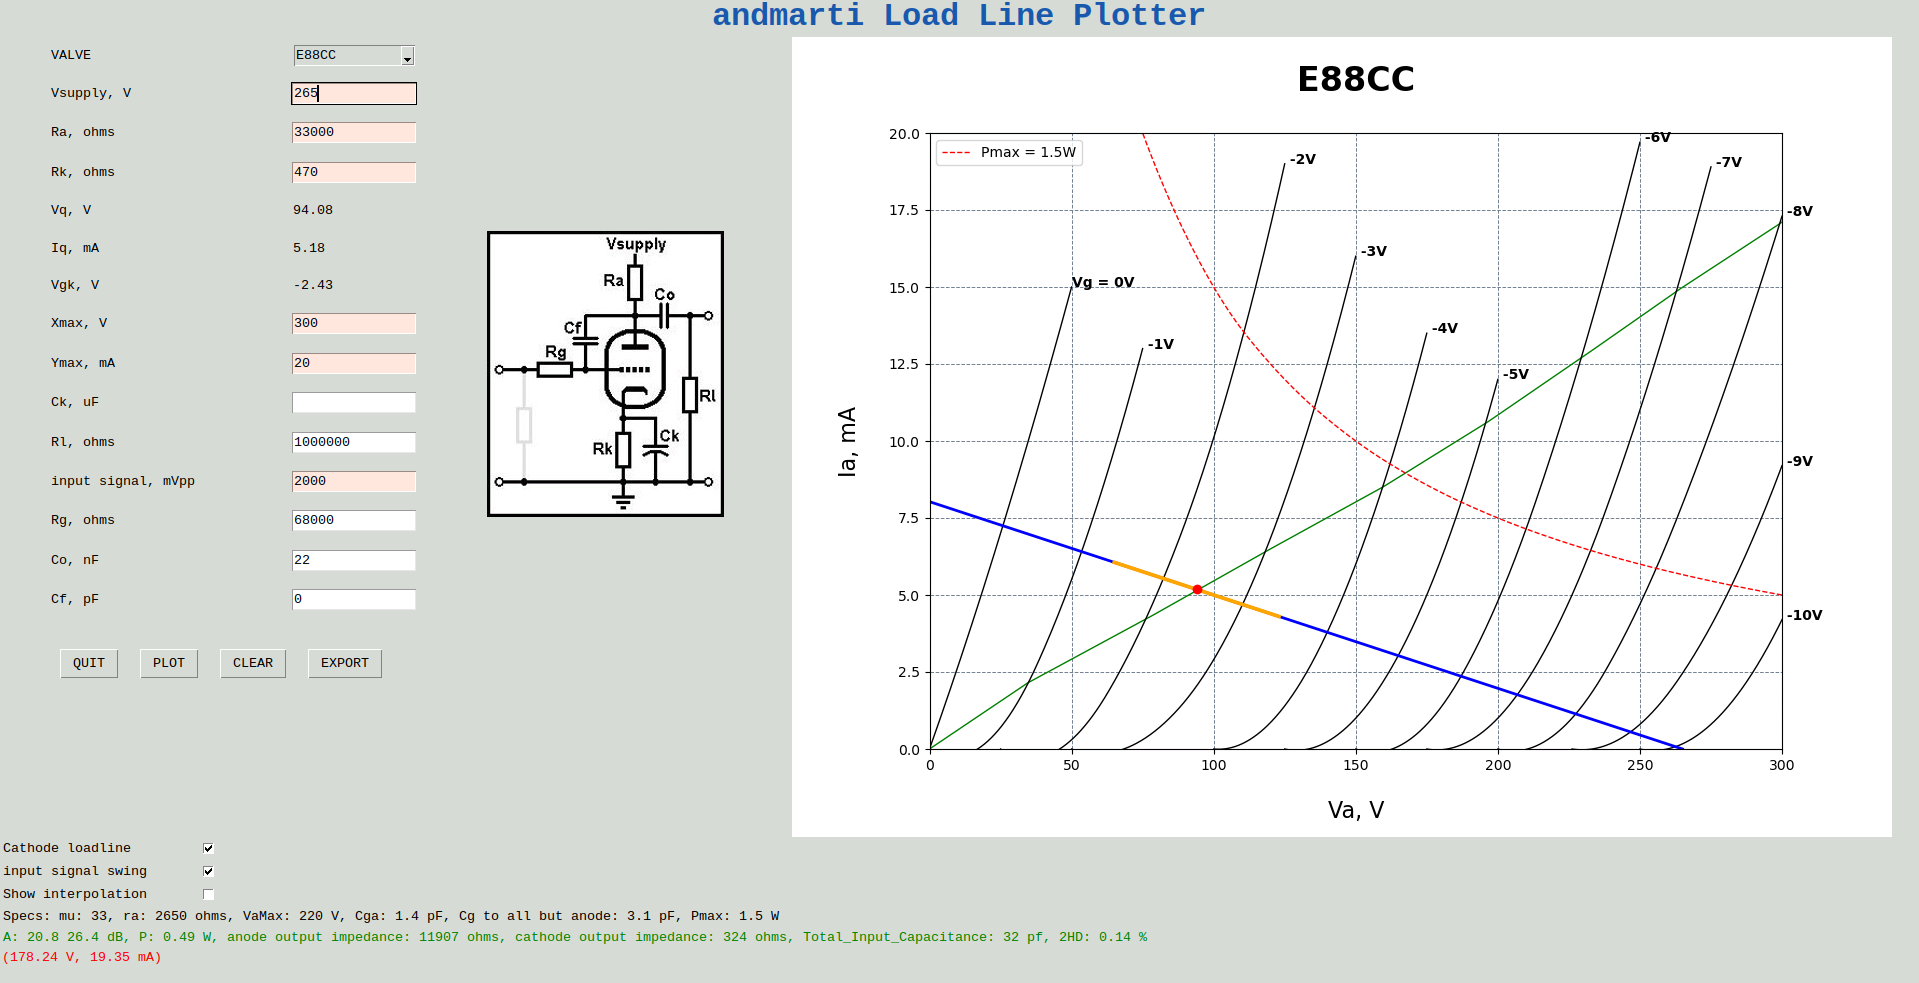
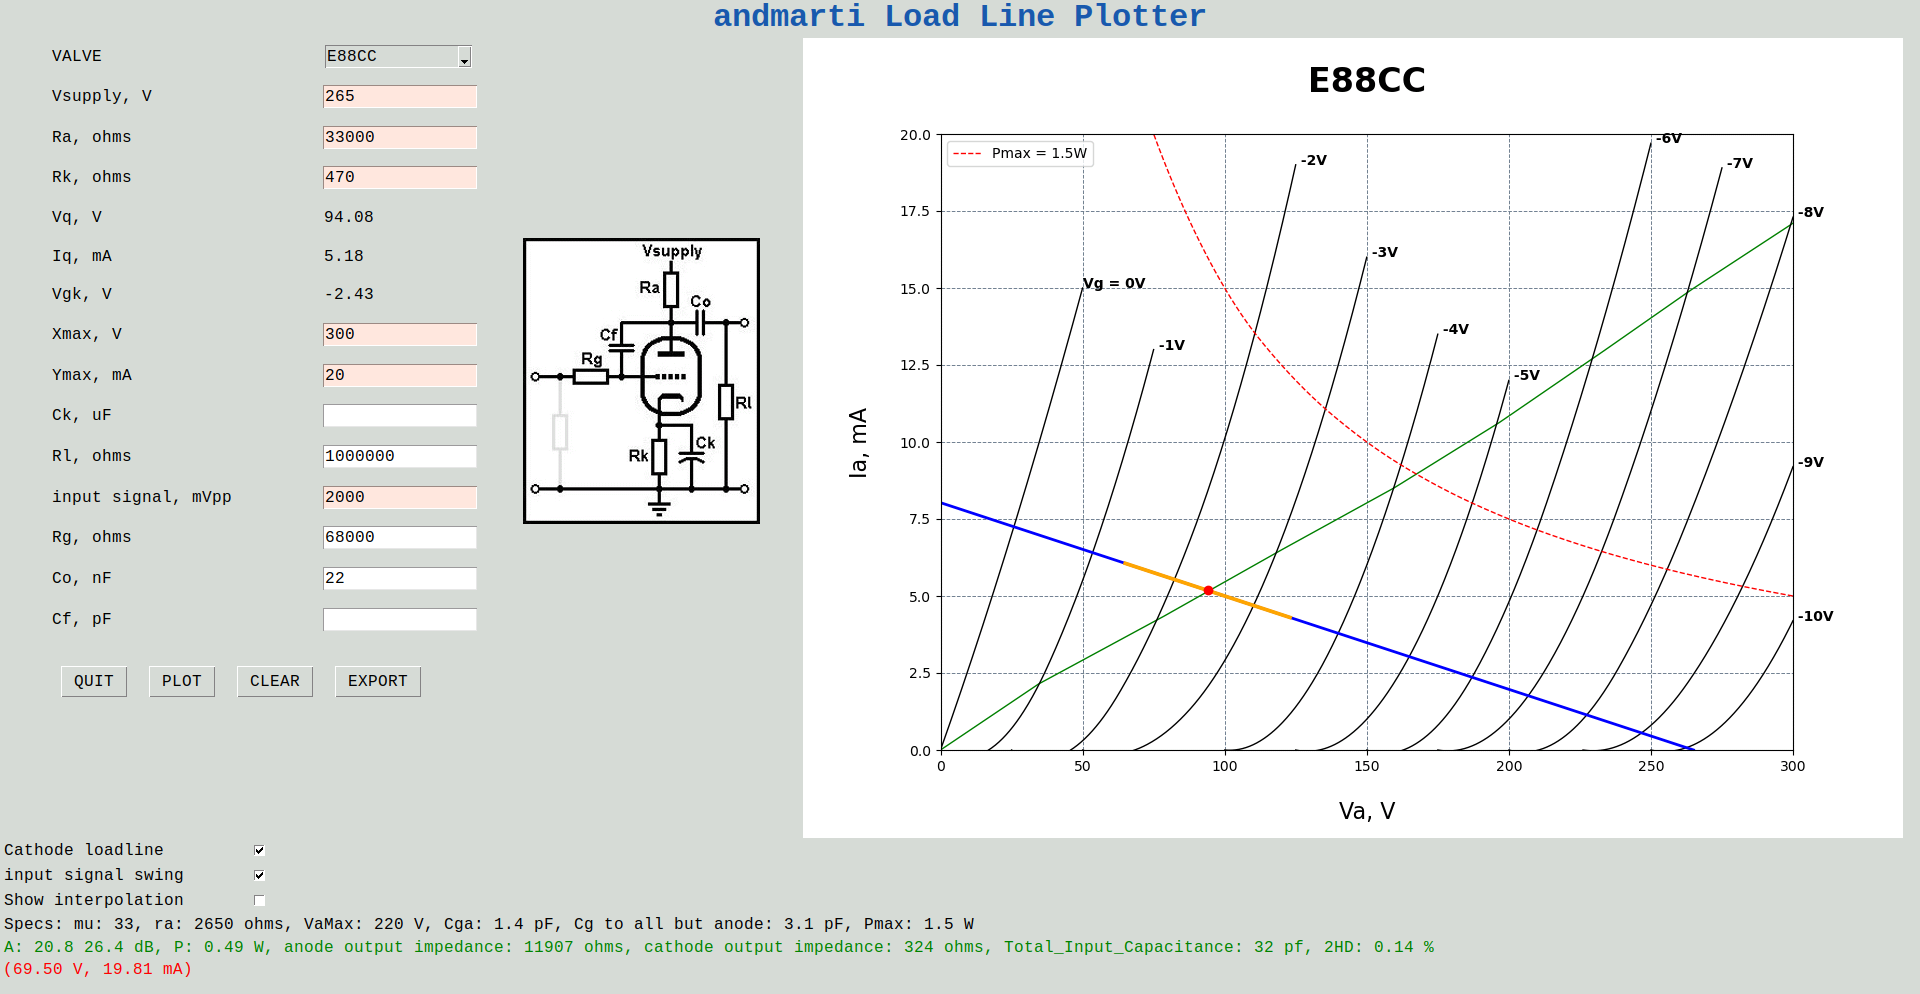
update screenshots

diff --git a/allplotter.py b/allplotter.py
@@ -29,7 +29,7 @@ DEFAULT_RL = 1000000
 DEFAULT_CO = 22
 #DEFAULT_CK = 1
 DEFAULT_RG = 68000
-DEFAULT_CF = 0
+#DEFAULT_CF = 0
 
 class mclass:
     def __init__(self,  window):
@@ -67,113 +67,113 @@ class mclass:
         self.ax.set_xlabel('Va, V', fontsize=16, loc='center',  labelpad=20)
 
         # valve
-        self.lbl_valve = Label(window, text="VALVE", font=('Courier New', 10), background=self.window['bg'])
+        self.lbl_valve = Label(window, text="VALVE", font=('Courier New', 12), background=self.window['bg'])
         self.lbl_valve.grid(row=1, column=0, sticky=W, padx=50, pady=5)
         self.str_valve = StringVar()
         self.str_valve.set(DEFAULT_VALVE)
-        self.cmb_valve = ttk.Combobox(window, values=self.df['valve'].drop_duplicates().values.tolist(), textvariable=self.str_valve, font=('Courier New', 10), width=13)
+        self.cmb_valve = ttk.Combobox(window, values=self.df['valve'].drop_duplicates().values.tolist(), textvariable=self.str_valve, font=('Courier New', 12), width=13)
         self.cmb_valve['state'] = 'readonly'
         self.cmb_valve.grid(row=1, column=1, sticky=W, padx=5, pady=5)
         self.cmb_valve.bind('<<ComboboxSelected>>', self.valve_changed)
 
         # Vs
-        self.lbl_supply = Label(window, text="Vsupply, V", font=('Courier New', 10), background=self.window['bg'], width=20, anchor='w')
+        self.lbl_supply = Label(window, text="Vsupply, V", font=('Courier New', 12), background=self.window['bg'], width=20, anchor='w')
         self.lbl_supply.grid(row=2, column=0, rowspan=1, sticky=W, padx=50, pady=5)
         self.str_supply = StringVar()
         self.str_supply.set(DEFAULT_VSUPPLY)
-        self.etr_supply = Entry(window, textvariable=self.str_supply, font=('Courier New', 10), width=15, background='misty rose')
+        self.etr_supply = Entry(window, textvariable=self.str_supply, font=('Courier New', 12), width=15, background='misty rose')
         self.etr_supply.grid(row=2, column=1, rowspan=1, sticky=W, padx=2, pady=5)
 
-        self.lbl_Ra = Label(window, text="Ra, ohms", font=('Courier New', 10), background=self.window['bg'])
+        self.lbl_Ra = Label(window, text="Ra, ohms", font=('Courier New', 12), background=self.window['bg'])
         self.lbl_Ra.grid(row=3, column=0, rowspan=1, sticky=W, padx=50, pady=5)
         self.str_Ra = StringVar()
         self.str_Ra.set(DEFAULT_Ra)
-        self.etr_Ra = Entry(window, textvariable=self.str_Ra, font=('Courier New', 10), width=15, background='misty rose')
+        self.etr_Ra = Entry(window, textvariable=self.str_Ra, font=('Courier New', 12), width=15, background='misty rose')
         self.etr_Ra.grid(row=3, column=1, rowspan=1, sticky=W, padx=2, pady=5)
 
-        self.lbl_Rk = Label(window, text="Rk, ohms", font=('Courier New', 10), background=self.window['bg'])
+        self.lbl_Rk = Label(window, text="Rk, ohms", font=('Courier New', 12), background=self.window['bg'])
         self.lbl_Rk.grid(row=4, column=0, rowspan=1, sticky=W, padx=50, pady=5)
         self.str_Rk = StringVar()
         self.str_Rk.set(DEFAULT_Rk)
-        self.etr_Rk = Entry(window, textvariable=self.str_Rk, font=('Courier New', 10), width=15, background='misty rose')
+        self.etr_Rk = Entry(window, textvariable=self.str_Rk, font=('Courier New', 12), width=15, background='misty rose')
         self.etr_Rk.grid(row=4, column=1, rowspan=1, sticky=W, padx=2, pady=5)
 
-        self.lbl_Vq = Label(window, text="Vq, V", font=('Courier New', 10), background=self.window['bg'])
+        self.lbl_Vq = Label(window, text="Vq, V", font=('Courier New', 12), background=self.window['bg'])
         self.lbl_Vq.grid(row=5, column=0, rowspan=1, sticky=W, padx=50, pady=5)
         self.str_Vq = StringVar()
-        self.lbl_Vqval = Label(window, textvariable=self.str_Vq, font=('Courier New', 10), width=15, anchor="w")
+        self.lbl_Vqval = Label(window, textvariable=self.str_Vq, font=('Courier New', 12), width=15, anchor="w")
         self.lbl_Vqval.grid(row=5, column=1, rowspan=1, sticky=W, padx=2, pady=5)
 
-        self.lbl_Iq = Label(window, text="Iq, mA", font=('Courier New', 10), background=self.window['bg'])
+        self.lbl_Iq = Label(window, text="Iq, mA", font=('Courier New', 12), background=self.window['bg'])
         self.lbl_Iq.grid(row=6, column=0, rowspan=1, sticky=W, padx=50, pady=5)
         self.str_Iq = StringVar()
-        self.lbl_Iqval = Label(window, textvariable=self.str_Iq, font=('Courier New', 10), width=15, anchor="w")
+        self.lbl_Iqval = Label(window, textvariable=self.str_Iq, font=('Courier New', 12), width=15, anchor="w")
         self.lbl_Iqval.grid(row=6, column=1, rowspan=1, sticky=W, padx=2, pady=5)
 
-        self.lbl_Vgk = Label(window, text="Vgk, V", font=('Courier New', 10), background=self.window['bg'])
+        self.lbl_Vgk = Label(window, text="Vgk, V", font=('Courier New', 12), background=self.window['bg'])
         self.lbl_Vgk.grid(row=7, column=0, rowspan=1, sticky=W, padx=50, pady=5)
         self.str_Vgk = StringVar()
-        self.lbl_Vgkval = Label(window, textvariable=self.str_Vgk, font=('Courier New', 10), width=15, anchor="w")
+        self.lbl_Vgkval = Label(window, textvariable=self.str_Vgk, font=('Courier New', 12), width=15, anchor="w")
         self.lbl_Vgkval.grid(row=7, column=1, rowspan=1, sticky=W, padx=2, pady=5)
 
-        self.lbl_Xmax = Label(window, text="Xmax, V", font=('Courier New', 10), background=self.window['bg'])
+        self.lbl_Xmax = Label(window, text="Xmax, V", font=('Courier New', 12), background=self.window['bg'])
         self.lbl_Xmax.grid(row=8, column=0, rowspan=1, sticky=W, padx=50, pady=5)
         self.str_Xmax = StringVar()
         self.str_Xmax.set(DEFAULT_XMAX)
-        self.etr_Xmax = Entry(window, textvariable=self.str_Xmax, font=('Courier New', 10), width=15, background='misty rose')
+        self.etr_Xmax = Entry(window, textvariable=self.str_Xmax, font=('Courier New', 12), width=15, background='misty rose')
         self.etr_Xmax.grid(row=8, column=1, rowspan=1, sticky=W, padx=2, pady=5)
 
-        self.lbl_Ymax = Label(window, text="Ymax, mA", font=('Courier New', 10), background=self.window['bg'])
+        self.lbl_Ymax = Label(window, text="Ymax, mA", font=('Courier New', 12), background=self.window['bg'])
         self.lbl_Ymax.grid(row=9, column=0, rowspan=1, sticky=W, padx=50, pady=5)
         self.str_Ymax = StringVar()
         self.str_Ymax.set(DEFAULT_YMAX)
-        self.etr_Ymax = Entry(window, textvariable=self.str_Ymax, font=('Courier New', 10), width=15, background='misty rose')
+        self.etr_Ymax = Entry(window, textvariable=self.str_Ymax, font=('Courier New', 12), width=15, background='misty rose')
         self.etr_Ymax.grid(row=9, column=1, rowspan=1, sticky=W, padx=2, pady=5)
 
-        self.lbl_ck = Label(window, text="Ck, uF", font=('Courier New', 10), background=self.window['bg'])
+        self.lbl_ck = Label(window, text="Ck, uF", font=('Courier New', 12), background=self.window['bg'])
         self.lbl_ck.grid(row=10, column=0, rowspan=1, sticky=W, padx=50, pady=5)
         self.str_ck = StringVar()
         #self.str_ck.set(DEFAULT_CK)
-        self.etr_ck = Entry(window, textvariable=self.str_ck, font=('Courier New', 10), width=15)
+        self.etr_ck = Entry(window, textvariable=self.str_ck, font=('Courier New', 12), width=15)
         self.etr_ck.grid(row=10, column=1, rowspan=1, sticky=W, padx=2, pady=5)
 
-        self.lbl_rl = Label(window, text="Rl, ohms", font=('Courier New', 10), background=self.window['bg'])
+        self.lbl_rl = Label(window, text="Rl, ohms", font=('Courier New', 12), background=self.window['bg'])
         self.lbl_rl.grid(row=11, column=0, rowspan=1, sticky=W, padx=50, pady=5)
         self.str_rl = StringVar()
         self.str_rl.set(DEFAULT_RL)
-        self.etr_rl = Entry(window, textvariable=self.str_rl, font=('Courier New', 10), width=15)
+        self.etr_rl = Entry(window, textvariable=self.str_rl, font=('Courier New', 12), width=15)
         self.etr_rl.grid(row=11, column=1, rowspan=1, sticky=W, padx=2, pady=5)
 
         # input signal
-        self.lbl_inputsignal = Label(window, text="input signal, mVpp", font=('Courier New', 10), background=self.window['bg'], width=18)
+        self.lbl_inputsignal = Label(window, text="input signal, mVpp", font=('Courier New', 12), background=self.window['bg'], width=18)
         self.lbl_inputsignal.grid(row=12, column=0, rowspan=1, sticky=W, padx=50, pady=5)
         self.str_inputsignal = StringVar()
         self.str_inputsignal.set(DEFAULT_INPUTSIGNAL)
-        self.etr_inputsignal = Entry(window, textvariable=self.str_inputsignal, font=('Courier New', 10), width=15, background='misty rose')
+        self.etr_inputsignal = Entry(window, textvariable=self.str_inputsignal, font=('Courier New', 12), width=15, background='misty rose')
         self.etr_inputsignal.grid(row=12, column=1, rowspan=1, sticky=W, padx=2, pady=5)
 
         # Rg
-        self.lbl_rg = Label(window, text="Rg, ohms", font=('Courier New', 10), background=self.window['bg'])
+        self.lbl_rg = Label(window, text="Rg, ohms", font=('Courier New', 12), background=self.window['bg'])
         self.lbl_rg.grid(row=13, column=0, rowspan=1, sticky=W, padx=50, pady=5)
         self.str_rg = StringVar()
         self.str_rg.set(DEFAULT_RG)
-        self.etr_rg = Entry(window, textvariable=self.str_rg, font=('Courier New', 10), width=15)
+        self.etr_rg = Entry(window, textvariable=self.str_rg, font=('Courier New', 12), width=15)
         self.etr_rg.grid(row=13, column=1, rowspan=1, sticky=W, padx=2, pady=5)
 
         # Co
-        self.lbl_co = Label(window, text="Co, nF", font=('Courier New', 10), background=self.window['bg'])
+        self.lbl_co = Label(window, text="Co, nF", font=('Courier New', 12), background=self.window['bg'])
         self.lbl_co.grid(row=14, column=0, rowspan=1, sticky=W, padx=50, pady=5)
         self.str_co = StringVar()
         self.str_co.set(DEFAULT_CO)
-        self.etr_co = Entry(window, textvariable=self.str_co, font=('Courier New', 10), width=15)
+        self.etr_co = Entry(window, textvariable=self.str_co, font=('Courier New', 12), width=15)
         self.etr_co.grid(row=14, column=1, rowspan=1, sticky=W, padx=2, pady=5)
 
         # Cf
-        self.lbl_cf = Label(window, text="Cf, pF", font=('Courier New', 10), background=self.window['bg'])
+        self.lbl_cf = Label(window, text="Cf, pF", font=('Courier New', 12), background=self.window['bg'])
         self.lbl_cf.grid(row=15, column=0, rowspan=1, sticky=W, padx=50, pady=5)
         self.str_cf = StringVar()
-        self.str_cf.set(DEFAULT_CF)
-        self.etr_cf = Entry(window, textvariable=self.str_cf, font=('Courier New', 10), width=15)
+        #self.str_cf.set(DEFAULT_CF)
+        self.etr_cf = Entry(window, textvariable=self.str_cf, font=('Courier New', 12), width=15)
         self.etr_cf.grid(row=15, column=1, rowspan=1, sticky=W, padx=2, pady=5)
 
 
@@ -181,45 +181,45 @@ class mclass:
         fm = Frame(window)
 
         # cathode loadline check
-        self.lbl_cathodeloadline = Label(fm, text="Cathode loadline", font=('Courier New', 10), background=self.window['bg'])
+        self.lbl_cathodeloadline = Label(fm, text="Cathode loadline", font=('Courier New', 12), background=self.window['bg'])
         self.lbl_cathodeloadline.grid(row = 0, column = 0, pady=0, sticky='w')
         self.chk_cathodeloadline_var = IntVar()
-        self.chk_cathodeloadline = Checkbutton(fm, variable=self.chk_cathodeloadline_var, onvalue = 1, offvalue = 0, height=1, font=('Courier New', 10),
+        self.chk_cathodeloadline = Checkbutton(fm, variable=self.chk_cathodeloadline_var, onvalue = 1, offvalue = 0, height=1, font=('Courier New', 12),
                                                command=self.chk_cathodeloadline_click, background=self.window['bg'], width=1, anchor="w")
         self.chk_cathodeloadline.select()
         self.chk_cathodeloadline.grid(row = 0, column = 1, columnspan=1, sticky='W')
 
         # input signal swing check
-        self.lbl_input_signal_swing = Label(fm, text="input signal swing", font=('Courier New', 10), background=self.window['bg'])
+        self.lbl_input_signal_swing = Label(fm, text="input signal swing", font=('Courier New', 12), background=self.window['bg'])
         self.lbl_input_signal_swing.grid(row = 1, column = 0, pady=0, sticky='w')
         self.chk_input_signal_swing_var = IntVar()
-        self.chk_input_signal_swing = Checkbutton(fm, variable=self.chk_input_signal_swing_var, onvalue = 1, offvalue = 0, height=1, font=('Courier New', 10),
+        self.chk_input_signal_swing = Checkbutton(fm, variable=self.chk_input_signal_swing_var, onvalue = 1, offvalue = 0, height=1, font=('Courier New', 12),
                                                command=self.chk_input_signal_swing_click, background=self.window['bg'], width=1, anchor="w")
         self.chk_input_signal_swing.select()
         self.chk_input_signal_swing.grid(row = 1, column = 1, columnspan=1, sticky='W')
 
         # interpolation check
-        self.lbl_showinterpolation = Label(fm, text="Show interpolation", font=('Courier New', 10), background=self.window['bg'])
+        self.lbl_showinterpolation = Label(fm, text="Show interpolation", font=('Courier New', 12), background=self.window['bg'])
         self.lbl_showinterpolation.grid(row = 2, column = 0, pady=0, sticky='w')
         self.chk_showinterpolation_var = IntVar()
-        self.chk_showinterpolation = Checkbutton(fm, variable=self.chk_showinterpolation_var, onvalue = 1, offvalue = 0, height=1, font=('Courier New', 10),
+        self.chk_showinterpolation = Checkbutton(fm, variable=self.chk_showinterpolation_var, onvalue = 1, offvalue = 0, height=1, font=('Courier New', 12),
                                                command=self.chk_showinterpolation_click, background=self.window['bg'], width=1, anchor="w")
         self.chk_showinterpolation.grid(row = 2, column = 1, columnspan=1, sticky='W')
 
         # valve specs label
         self.str_specs = StringVar()
         self.str_specs.set("Specs: ")
-        self.lbl_specs = Label(fm, textvariable=self.str_specs, font=('Courier New', 10), background=self.window['bg'])
+        self.lbl_specs = Label(fm, textvariable=self.str_specs, font=('Courier New', 12), background=self.window['bg'])
         self.lbl_specs.grid(row = 3, column = 0, columnspan=62, sticky='W')
 
         # calculations label
         self.str_calculations = StringVar()
         self.str_calculations.set("Calculations: ")
-        self.lbl_calculations = Label(fm, textvariable=self.str_calculations, font=('Courier New', 10),  fg='green', background=self.window['bg'])
+        self.lbl_calculations = Label(fm, textvariable=self.str_calculations, font=('Courier New', 12),  fg='green', background=self.window['bg'])
         self.lbl_calculations.grid(row = 4, column = 0, columnspan=62, sticky='W')
 
         # cursor position
-        self.txt_coordinates = Text(fm, bd=0, bg=window['bg'], fg='red', height=1, wrap="none", state="normal", font=('Courier New', 10), background=self.window['bg'])
+        self.txt_coordinates = Text(fm, bd=0, bg=window['bg'], fg='red', height=1, wrap="none", state="normal", font=('Courier New', 12), background=self.window['bg'])
         self.txt_coordinates.grid(row = 5, column = 0, columnspan=10, sticky='W')
         self.txt_coordinates.config(highlightthickness = 0, borderwidth=0)
         self.txt_coordinates.config(state=DISABLED)
@@ -228,13 +228,13 @@ class mclass:
 
         #BUTTONS
         fmbut = Frame(window)
-        self.button_quit = Button(fmbut, text="QUIT", command=self.quit, font=('Courier New', 10))
+        self.button_quit = Button(fmbut, text="QUIT", command=self.quit, font=('Courier New', 12))
         self.button_quit.grid(row=0, column=0, padx=10)
-        self.button_start = Button(fmbut, text="PLOT", command=self.change_state, font=('Courier New', 10))
+        self.button_start = Button(fmbut, text="PLOT", command=self.change_state, font=('Courier New', 12))
         self.button_start.grid(row=0, column=1, padx=10)
-        self.button_clear = Button(fmbut, text="CLEAR", command=self.clear_chart, font=('Courier New', 10), state='normal')
+        self.button_clear = Button(fmbut, text="CLEAR", command=self.clear_chart, font=('Courier New', 12), state='normal')
         self.button_clear.grid(row=0, column=2, padx=10)
-        self.but_export = Button(fmbut, text="EXPORT", command=self.export, font=('Courier New', 10))
+        self.but_export = Button(fmbut, text="EXPORT", command=self.export, font=('Courier New', 12))
         self.but_export.grid(row=0, column=3, padx=10)
         fmbut.grid(row=20, column=0, padx=50, pady=0, columnspan=5, sticky='W')
 
@@ -637,7 +637,7 @@ class mclass:
         Rl = float(self.etr_rl.get())
 
         #sin cap
-        if len(self.etr_ck.get()) == 0:
+        if len(self.etr_ck.get()) == 0 or self.can_convert_to_float(self.etr_ck.get()) == False or self.etr_ck.get() == '0':
             if len(self.etr_Rk.get()) == 0: return
             if len(self.etr_Rk.get()) != 0 and self.can_convert_to_float(self.etr_Rk.get()) == False: return
             Rk = float(self.etr_Rk.get())
@@ -653,7 +653,7 @@ class mclass:
                 Cf = float(self.str_cf.get())
             total_input_capacitance = CgAEA +((Cf+Cga)*g)
             self.str_calculations.set(self.str_calculations.get() + ', Total_Input_Capacitance: %d pf' % total_input_capacitance)
-        else:
+        elif len(self.etr_ck.get()) != 0 and self.can_convert_to_float(self.etr_ck.get()) != False:
             gcc=(mu*(1/((1/Ra)+(1/Rl))))/((1/((1/Ra)+(1/Rl)))+ra)
             gdb=(math.log10(gcc))*20
             aoi = (Ra*ra)/(Ra+ra)
